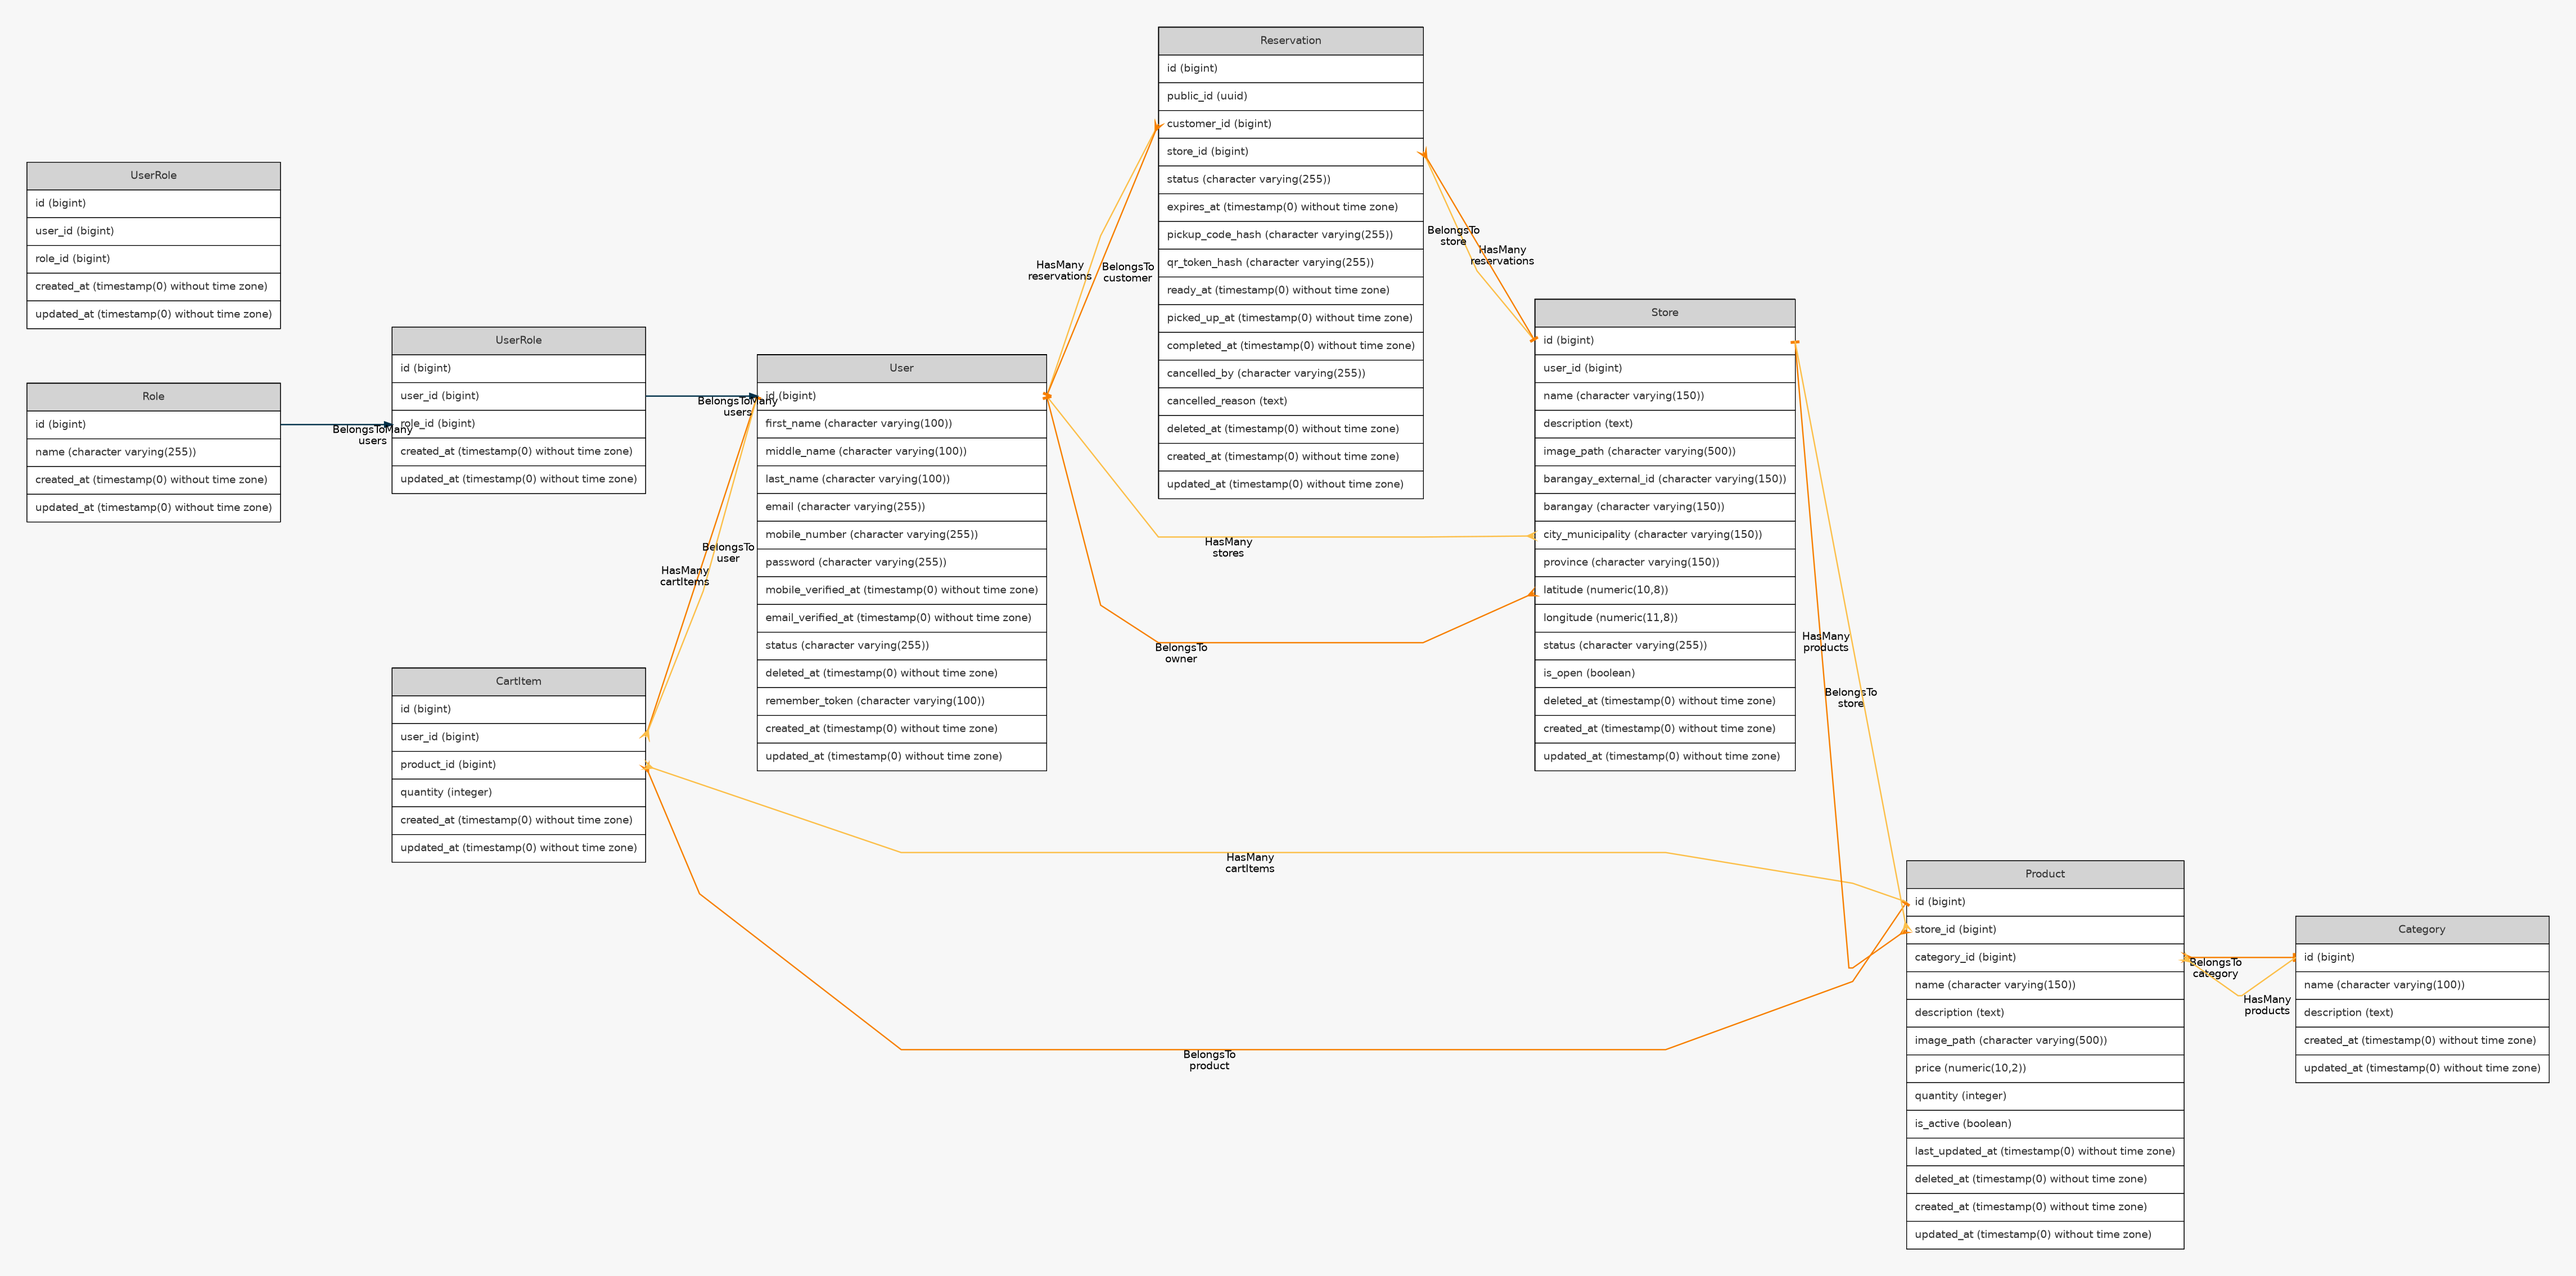
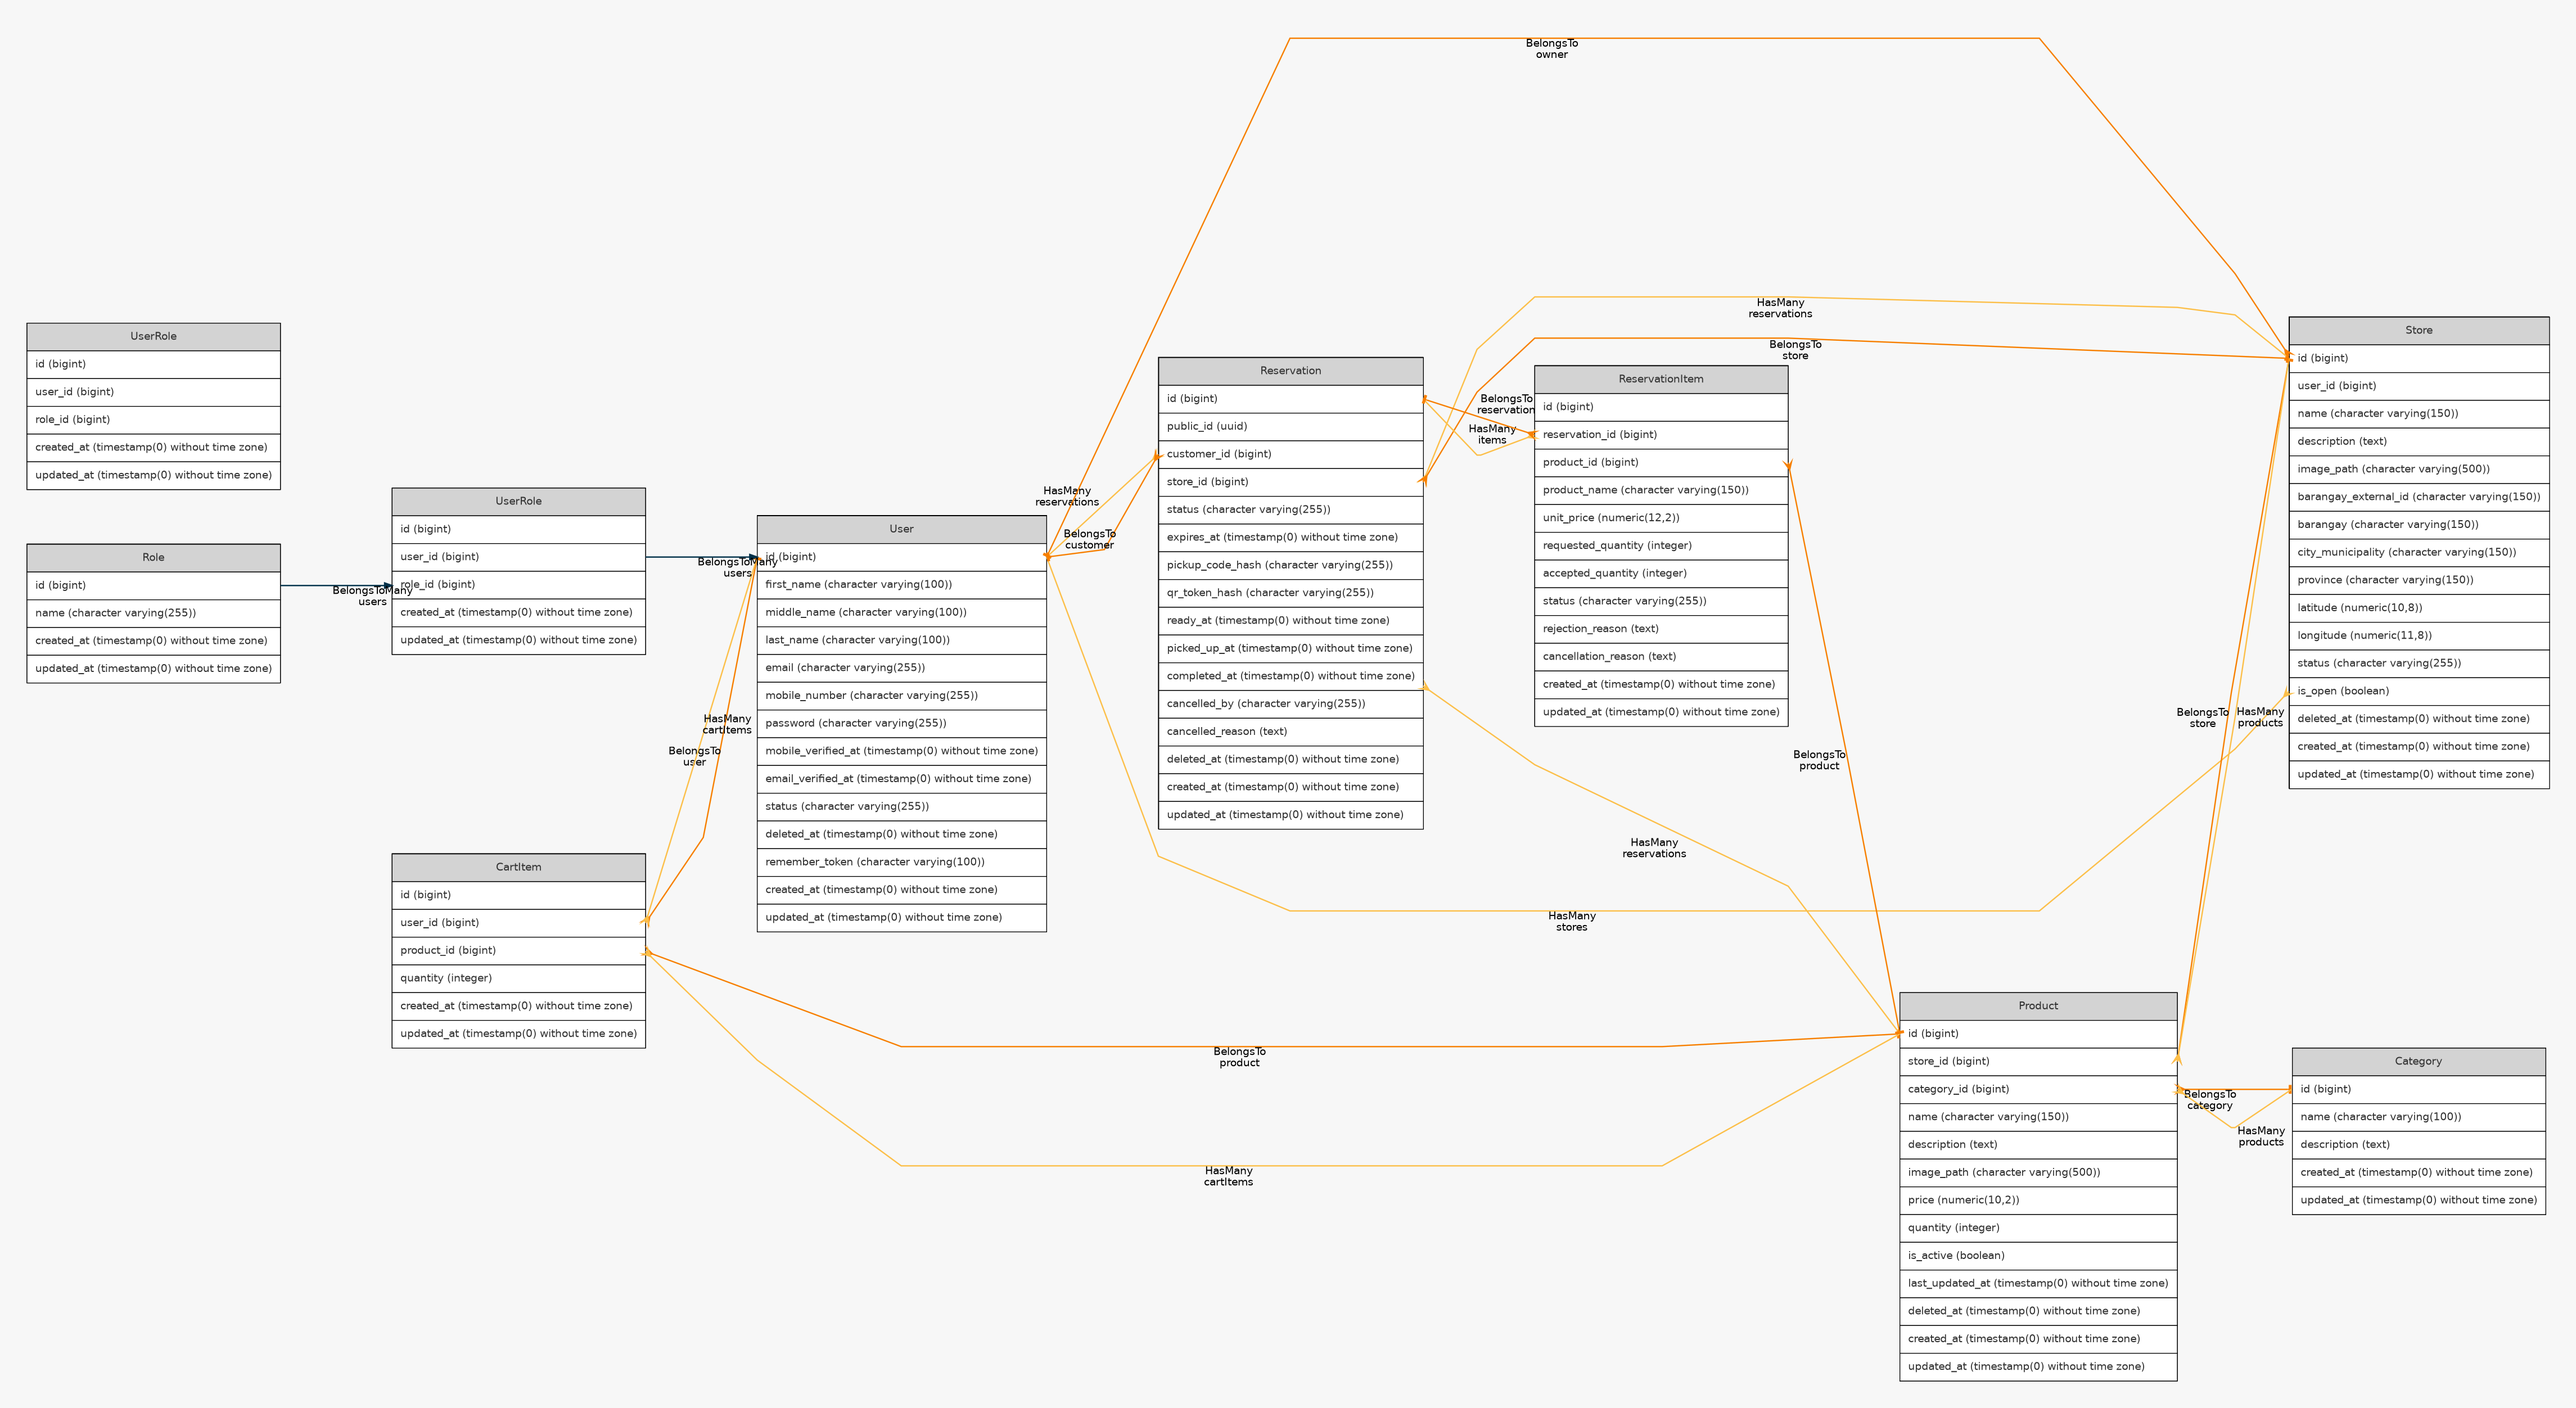
feat(reservation): add ReservationItem model, migration, and relationships with Reservation and Product

diff --git a/Backend/_ide_helper_models.php b/Backend/_ide_helper_models.php
@@ -104,17 +104,19 @@ namespace App\Models{
  * @property int $customer_id
  * @property int $store_id
  * @property string $status
- * @property string|null $expires_at
+ * @property \Illuminate\Support\Carbon|null $expires_at
  * @property string|null $pickup_code_hash
  * @property string|null $qr_token_hash
- * @property string|null $ready_at
- * @property string|null $picked_up_at
- * @property string|null $completed_at
+ * @property \Illuminate\Support\Carbon|null $ready_at
+ * @property \Illuminate\Support\Carbon|null $picked_up_at
+ * @property \Illuminate\Support\Carbon|null $completed_at
  * @property string|null $cancelled_by
  * @property string|null $cancelled_reason
  * @property string|null $deleted_at
  * @property \Illuminate\Support\Carbon|null $created_at
  * @property \Illuminate\Support\Carbon|null $updated_at
+ * @property-read \App\Models\User|null $customer
+ * @property-read \App\Models\Store|null $store
  * @method static \Illuminate\Database\Eloquent\Builder<static>|Reservation newModelQuery()
  * @method static \Illuminate\Database\Eloquent\Builder<static>|Reservation newQuery()
  * @method static \Illuminate\Database\Eloquent\Builder<static>|Reservation query()
@@ -136,6 +138,41 @@ namespace App\Models{
  * @method static \Illuminate\Database\Eloquent\Builder<static>|Reservation whereUpdatedAt($value)
  */
 	class Reservation extends \Eloquent {}
+}
+
+namespace App\Models{
+/**
+ * @property int $id
+ * @property int $reservation_id
+ * @property int $product_id
+ * @property string $product_name
+ * @property numeric $unit_price
+ * @property int $requested_quantity
+ * @property int $accepted_quantity
+ * @property string $status
+ * @property string|null $rejection_reason
+ * @property string|null $cancellation_reason
+ * @property \Illuminate\Support\Carbon|null $created_at
+ * @property \Illuminate\Support\Carbon|null $updated_at
+ * @property-read \App\Models\Product|null $product
+ * @property-read \App\Models\Reservation $reservation
+ * @method static \Illuminate\Database\Eloquent\Builder<static>|ReservationItem newModelQuery()
+ * @method static \Illuminate\Database\Eloquent\Builder<static>|ReservationItem newQuery()
+ * @method static \Illuminate\Database\Eloquent\Builder<static>|ReservationItem query()
+ * @method static \Illuminate\Database\Eloquent\Builder<static>|ReservationItem whereAcceptedQuantity($value)
+ * @method static \Illuminate\Database\Eloquent\Builder<static>|ReservationItem whereCancellationReason($value)
+ * @method static \Illuminate\Database\Eloquent\Builder<static>|ReservationItem whereCreatedAt($value)
+ * @method static \Illuminate\Database\Eloquent\Builder<static>|ReservationItem whereId($value)
+ * @method static \Illuminate\Database\Eloquent\Builder<static>|ReservationItem whereProductId($value)
+ * @method static \Illuminate\Database\Eloquent\Builder<static>|ReservationItem whereProductName($value)
+ * @method static \Illuminate\Database\Eloquent\Builder<static>|ReservationItem whereRejectionReason($value)
+ * @method static \Illuminate\Database\Eloquent\Builder<static>|ReservationItem whereRequestedQuantity($value)
+ * @method static \Illuminate\Database\Eloquent\Builder<static>|ReservationItem whereReservationId($value)
+ * @method static \Illuminate\Database\Eloquent\Builder<static>|ReservationItem whereStatus($value)
+ * @method static \Illuminate\Database\Eloquent\Builder<static>|ReservationItem whereUnitPrice($value)
+ * @method static \Illuminate\Database\Eloquent\Builder<static>|ReservationItem whereUpdatedAt($value)
+ */
+	class ReservationItem extends \Eloquent {}
 }
 
 namespace App\Models{
@@ -179,6 +216,8 @@ namespace App\Models{
  * @property-read \App\Models\User|null $owner
  * @property-read \Illuminate\Database\Eloquent\Collection<int, \App\Models\Product> $products
  * @property-read int|null $products_count
+ * @property-read \Illuminate\Database\Eloquent\Collection<int, \App\Models\Reservation> $reservations
+ * @property-read int|null $reservations_count
  * @method static \Illuminate\Database\Eloquent\Builder<static>|Store newModelQuery()
  * @method static \Illuminate\Database\Eloquent\Builder<static>|Store newQuery()
  * @method static \Illuminate\Database\Eloquent\Builder<static>|Store onlyTrashed()
@@ -225,6 +264,8 @@ namespace App\Models{
  * @property-read int|null $cart_items_count
  * @property-read \Illuminate\Notifications\DatabaseNotificationCollection<int, \Illuminate\Notifications\DatabaseNotification> $notifications
  * @property-read int|null $notifications_count
+ * @property-read \Illuminate\Database\Eloquent\Collection<int, \App\Models\Reservation> $reservations
+ * @property-read int|null $reservations_count
  * @property-read \Illuminate\Database\Eloquent\Collection<int, \App\Models\Store> $stores
  * @property-read int|null $stores_count
  * @property-read \Illuminate\Database\Eloquent\Collection<int, \Laravel\Sanctum\PersonalAccessToken> $tokens

diff --git a/Backend/database/migrations/2026_08_04_115214_create_reservation_items_table.php b/Backend/database/migrations/2026_08_04_115214_create_reservation_items_table.php
@@ -1,0 +1,39 @@
+<?php
+
+use App\Enums\ReservationItemStatus;
+use App\Models\Product;
+use App\Models\Reservation;
+use Illuminate\Database\Migrations\Migration;
+use Illuminate\Database\Schema\Blueprint;
+use Illuminate\Support\Facades\Schema;
+
+return new class extends Migration
+{
+    /**
+     * Run the migrations.
+     */
+    public function up(): void
+    {
+        Schema::create('reservation_items', function (Blueprint $table) {
+            $table->id();
+            $table->foreignIdFor(Reservation::class)->constrained()->restrictOnDelete();
+            $table->foreignIdFor(Product::class)->constrained()->restrictOnDelete();
+            $table->string('product_name', 150);
+            $table->decimal('unit_price', 12, 2);
+            $table->integer('requested_quantity')->default(1);
+            $table->integer('accepted_quantity')->default(0);
+            $table->string('status')->default(ReservationItemStatus::PENDING->value);
+            $table->text('rejection_reason')->nullable();
+            $table->text('cancellation_reason')->nullable();
+            $table->timestamps();
+        });
+    }
+
+    /**
+     * Reverse the migrations.
+     */
+    public function down(): void
+    {
+        Schema::dropIfExists('reservation_items');
+    }
+};

diff --git a/Backend/app/Models/ReservationItem.php b/Backend/app/Models/ReservationItem.php
@@ -1,0 +1,42 @@
+<?php
+
+namespace App\Models;
+
+use Illuminate\Database\Eloquent\Attributes\Fillable;
+use Illuminate\Database\Eloquent\Attributes\Table;
+use Illuminate\Database\Eloquent\Model;
+
+#[Fillable([
+    'reservation_id',
+    'product_id',
+    'product_name',
+    'unit_price',
+    'requested_quantity',
+    'accepted_quantity',
+    'status',
+    'rejection_reason',
+    'cancellation_reason',
+])]
+
+#[Table('reservation_items')]
+class ReservationItem extends Model
+{
+    protected function casts(): array
+    {
+        return [
+            'unit_price' => 'decimal',
+            'requested_quantity' => 'integer',
+            'accepted_quantity' => 'integer',
+        ];
+    }
+
+    public function reservation()
+    {
+        return $this->belongsTo(Reservation::class, 'reservation_id');
+    }
+
+    public function product()
+    {
+        return $this->belongsTo(Product::class, 'product_id');
+    }
+}

diff --git a/Backend/app/Enums/ReservationItemStatus.php b/Backend/app/Enums/ReservationItemStatus.php
@@ -1,0 +1,14 @@
+<?php
+
+namespace App\Enums;
+
+enum ReservationItemStatus: string
+{
+    case PENDING = 'pending';
+    case ACCEPTED = 'accepted';
+    case REJECTED = 'rejected';
+    case READY_FOR_PICKUP = 'ready_for_pickup';
+    case CANCELATION_REQUESTED = 'cancelation_requested';
+    case CANCELLED = 'cancelled';
+    case COMPLETED = 'completed';
+}

diff --git a/Backend/app/Models/Reservation.php b/Backend/app/Models/Reservation.php
@@ -46,4 +46,9 @@ class Reservation extends Model
     {
         return $this->belongsTo(Store::class, 'store_id');
     }
+
+    public function items()
+    {
+        return $this->hasMany(ReservationItem::class, 'reservation_id');
+    }
 }

diff --git a/Backend/app/Models/Product.php b/Backend/app/Models/Product.php
@@ -48,4 +48,9 @@ class Product extends Model
     {
         return $this->hasMany(CartItem::class, 'product_id');
     }
+
+    public function reservations()
+    {
+        return $this->hasMany(Reservation::class, 'product_id');
+    }
 }
